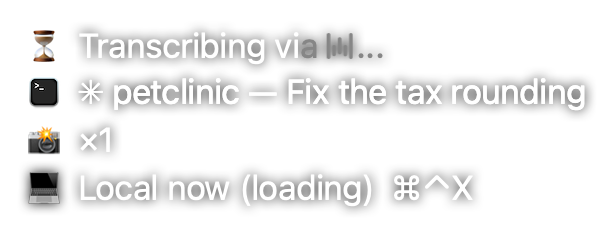
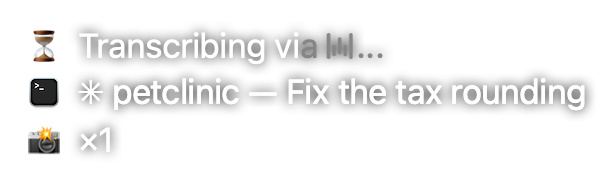
📸 States page: prompt-area-context and prompt-move-context

Changed region(s): [[0.0308, 0.1075, 0.987, 0.914]]

diff --git a/docs/overlay-states.html b/docs/overlay-states.html
@@ -100,7 +100,7 @@
 <header class="page">
   <h1>Every state of the overlay</h1>
   <p class="sub">
-    All 60 states the Walkie&nbsp;Talkie chip and panel can be in — what each one
+    All 62 states the Walkie&nbsp;Talkie chip and panel can be in — what each one
     is, and the moment it is on screen. The pictures are the real views drawing
     themselves, not mockups.
   </p>
@@ -198,9 +198,9 @@
       <section class="card" id="spawn">
         <header>
           <h3>This sentence opens a new session</h3>
-          <div class="tags"><span class="tag tag-chip" title="bare text beside the cursor — no blur, no shadow, no ✕">chip</span><span class="tag">alpha 0.80</span><span class="tag">235×70 pt</span></div>
+          <div class="tags"><span class="tag tag-chip" title="bare text beside the cursor — no blur, no shadow, no ✕">chip</span><span class="tag">alpha 0.80</span><span class="tag">227×70 pt</span></div>
         </header>
-        <div class="shot"><img src="states/spawn.png" width="235" height="70" style="opacity:0.8" alt="This sentence opens a new session"></div>
+        <div class="shot"><img src="states/spawn.png" width="227" height="70" style="opacity:0.8" alt="This sentence opens a new session"></div>
         <p class="when">🔼 ↑ — the forward button held, mouse moved up (🛞🛞 with Logi gestures off): the dictation goes to a terminal that does not exist yet.</p>
         <p class="note"><strong>One row, and the ✨ is all that is left of the destination.</strong> It had a title row of its own — Terminal&#x27;s icon, ✨, <code>workspace</code> — and Victor took it off on 2026-09-02: the folder is <em>always</em> <code>~/workspace</code>, which is the whole point of the gesture, and the icon names an app he is not looking at yet. So the mark rides in front of <code>Listening…</code> and the row above it goes. The 🔴 keeps the glyph column: a frozen recording row is indistinguishable from a hung app, and that is the one thing the pulse is here to rule out.</p>
         <code class="slug">spawn</code>
@@ -218,9 +218,9 @@
       <section class="card" id="bind-to-send">
         <header>
           <h3>Nothing is bound, and he is talking anyway</h3>
-          <div class="tags"><span class="tag tag-chip" title="bare text beside the cursor — no blur, no shadow, no ✕">chip</span><span class="tag">alpha 0.80</span><span class="tag">215×93 pt</span></div>
+          <div class="tags"><span class="tag tag-chip" title="bare text beside the cursor — no blur, no shadow, no ✕">chip</span><span class="tag">alpha 0.80</span><span class="tag">382×93 pt</span></div>
         </header>
-        <div class="shot"><img src="states/bind-to-send.png" width="215" height="93" style="opacity:0.8" alt="Nothing is bound, and he is talking anyway"></div>
+        <div class="shot"><img src="states/bind-to-send.png" width="382" height="93" style="opacity:0.8" alt="Nothing is bound, and he is talking anyway"></div>
         <p class="when">Any dictation started with no terminal bound — which the app refused outright until 2026-09-11, and now holds for the bind that follows it.</p>
         <p class="note"><strong>The destination row names a gesture rather than a place</strong>, because that is what this destination still is: <em>bind to send</em>, behind the same drawn pin <code>at caret</code> rides behind. It is the fourth answer to <em>where do these words go</em> — a terminal already bound, one it is about to open for itself, the caret, and now <strong>later</strong> (<code>AppDelegate.holdsForBind</code>). The sentence is recorded, shown and read exactly as a bound one is, and <code>commit</code> parks it for five minutes; the outbox line is written at delivery and not before, which is the whole of what survives from the 2026-08-27 decision that unbound means silent. The row comes down the instant a bind lands, and the chip says <code>📨 held — bind a terminal to send it</code> once the words have left the dictation, and <code>📨 1 waiting — bind to send</code> until a bind sends it (next shot). <strong>The icon form and not the ✨&#x27;s mark form</strong>: a mark with no icon is <code>spawnCollapsed</code>, which drops the row and rides the glyph in front of <code>Listening...</code>, so the words would never have been drawn.</p>
         <code class="slug">bind-to-send</code>
@@ -300,9 +300,9 @@
       <section class="card" id="listening">
         <header>
           <h3>Dictating</h3>
-          <div class="tags"><span class="tag tag-chip" title="bare text beside the cursor — no blur, no shadow, no ✕">chip</span><span class="tag">alpha 0.80</span><span class="tag">308×93 pt</span></div>
+          <div class="tags"><span class="tag tag-chip" title="bare text beside the cursor — no blur, no shadow, no ✕">chip</span><span class="tag">alpha 0.80</span><span class="tag">362×93 pt</span></div>
         </header>
-        <div class="shot"><img src="states/listening.png" width="308" height="93" style="opacity:0.8" alt="Dictating"></div>
+        <div class="shot"><img src="states/listening.png" width="362" height="93" style="opacity:0.8" alt="Dictating"></div>
         <p class="when">From 🔼 → until he makes it again (🛞 with Logi gestures off) — the bulk of every dictation.</p>
         <p class="note"><strong>The destination is named here</strong>, and only here — the chip has been a bare 🎙 all day, and now it wears the destination&#x27;s own icon too; and the moment the microphone opens it spells out the terminal the words are going to, in time for him to ⌘⌃B somewhere else mid-sentence if it is the wrong one. The pulsing 🔴 says <em>now</em>, <code>Listening…</code> says what. The model id used to follow it and now lives only in the menu: it is a setting, and a setting restated beside the cursor all day pays rent to be read twice a month. <strong>This is the bar full</strong> — three voiced seconds in, every character of <code>Listening...</code> lit, and it stays that way for the rest of the sentence; the two shots below it are what the same row looks like on the way there. <strong>The blue <code>HQ</code> after it is what the bar filling means</strong>, said in two letters: past three voiced seconds the wrong-language mode is at its floor and the median WER of a short clip has halved, so the tag is a claim about <em>this</em> dictation rather than the gold star it replaced, which only said well done and left him to remember what for. It pops out when the last dot lights — a thing that moves is caught in peripheral vision, which is where this row spends its life. <strong><code>📸 ×1</code> from the first frame</strong>: he took that picture by starting to talk, and the count is back on 2026-09-09 because the vignette answers <em>did that press land</em> while this answers <em>what am I about to send</em> — which is a different question three minutes and four presses in.</p>
         <code class="slug">listening</code>
@@ -370,9 +370,9 @@
       <section class="card" id="listening-picks">
         <header>
           <h3>Dictating, with elements picked</h3>
-          <div class="tags"><span class="tag tag-chip" title="bare text beside the cursor — no blur, no shadow, no ✕">chip</span><span class="tag">alpha 0.80</span><span class="tag">308×117 pt</span></div>
+          <div class="tags"><span class="tag tag-chip" title="bare text beside the cursor — no blur, no shadow, no ✕">chip</span><span class="tag">alpha 0.80</span><span class="tag">362×117 pt</span></div>
         </header>
-        <div class="shot"><img src="states/listening-picks.png" width="308" height="117" style="opacity:0.8" alt="Dictating, with elements picked"></div>
+        <div class="shot"><img src="states/listening-picks.png" width="362" height="117" style="opacity:0.8" alt="Dictating, with elements picked"></div>
         <p class="when">After the first ⌘⇧-click in Chrome, whatever app he switches to afterwards.</p>
         <p class="note">No row at all before the first pick — the <code>⌘⇧</code> invitation is a badge the extension draws at the bottom of the page since 2026-10-07. Then the newest selector, tail-first: what he cannot check otherwise is whether the click caught the button or the div wrapped around it. <strong>For four seconds</strong> — the row below is where it ends up.</p>
         <code class="slug">listening-picks</code>
@@ -410,9 +410,9 @@
       <section class="card" id="listening-selection-caught">
         <header>
           <h3>The shutter caught a highlight</h3>
-          <div class="tags"><span class="tag tag-chip" title="bare text beside the cursor — no blur, no shadow, no ✕">chip</span><span class="tag">alpha 0.80</span><span class="tag">326×117 pt</span></div>
+          <div class="tags"><span class="tag tag-chip" title="bare text beside the cursor — no blur, no shadow, no ✕">chip</span><span class="tag">alpha 0.80</span><span class="tag">326×141 pt</span></div>
         </header>
-        <div class="shot"><img src="states/listening-selection-caught.png" width="326" height="117" style="opacity:0.8" alt="The shutter caught a highlight"></div>
+        <div class="shot"><img src="states/listening-selection-caught.png" width="326" height="141" style="opacity:0.8" alt="The shutter caught a highlight"></div>
         <p class="when">For a beat after every side-button press that reads a new selection — including one in a Chrome page, which is where it used to read nothing at all.</p>
         <p class="note">His own words back, on a row that was not there a moment ago — deliberately not a flash, since a flash is a panel and a shutter press must not throw one over the work he is photographing. It said <code>selecting</code> in front of them until 2026-09-09, when Victor had the verb removed: the row appearing is the receipt. It collapses to <code>×N</code> after four seconds, and it truncates at 34 characters.</p>
         <code class="slug">listening-selection-caught</code>
@@ -470,9 +470,9 @@
       <section class="card" id="transcribing-local-now-loading">
         <header>
           <h3>⌘⌃X while the local model is cold</h3>
-          <div class="tags"><span class="tag tag-chip" title="bare text beside the cursor — no blur, no shadow, no ✕">chip</span><span class="tag">alpha 0.80</span><span class="tag">308×117 pt</span></div>
+          <div class="tags"><span class="tag tag-chip" title="bare text beside the cursor — no blur, no shadow, no ✕">chip</span><span class="tag">alpha 0.80</span><span class="tag">308×93 pt</span></div>
         </header>
-        <div class="shot"><img src="states/transcribing-local-now-loading.png" width="308" height="117" style="opacity:0.8" alt="⌘⌃X while the local model is cold"></div>
+        <div class="shot"><img src="states/transcribing-local-now-loading.png" width="308" height="93" style="opacity:0.8" alt="⌘⌃X while the local model is cold"></div>
         <p class="when">Waiting on ElevenLabs with the local weights not loaded (a cold start, or the helper restarted).</p>
         <p class="note"><code>(loading)</code> says the key will not answer at once — not that it will not work. Pressed now, the WAV waits for the weights (up to 90 s, the fallback&#x27;s own window) and the words go where the sentence was going.</p>
         <code class="slug">transcribing-local-now-loading</code>
@@ -480,9 +480,9 @@
       <section class="card" id="transcribing-fallback-countdown">
         <header>
           <h3>Fallback to local — counting down to the budget</h3>
-          <div class="tags"><span class="tag tag-chip" title="bare text beside the cursor — no blur, no shadow, no ✕">chip</span><span class="tag">alpha 0.80</span><span class="tag">308×117 pt</span></div>
+          <div class="tags"><span class="tag tag-chip" title="bare text beside the cursor — no blur, no shadow, no ✕">chip</span><span class="tag">alpha 0.80</span><span class="tag">308×93 pt</span></div>
         </header>
-        <div class="shot"><img src="states/transcribing-fallback-countdown.png" width="308" height="117" style="opacity:0.8" alt="Fallback to local — counting down to the budget"></div>
+        <div class="shot"><img src="states/transcribing-fallback-countdown.png" width="308" height="93" style="opacity:0.8" alt="Fallback to local — counting down to the budget"></div>
         <p class="when">From one second into the wait for ElevenLabs or Wispr Flow with <em>Backup Local Pre-Transcribe</em> on (the default), until the engine&#x27;s p95 for that length runs out.</p>
         <p class="note"><strong>The countdown is on the row with the keys</strong> (2026-10-07; <code>💻 local in 3s / ⌘⌃X ...</code> is Victor&#x27;s own wording, the 💻 in the glyph column — replacing 10-06&#x27;s <code>⌘⌃X - 💻 fallback, auto in 3s...</code>). Victor: <em>&quot;put a countdown timer … when the timer expires, the local dictation is automatically injected&quot;</em>, then <em>&quot;put it like fallback to local in countdown timer and then show the key shortcuts&quot;</em>. At the close the relay reads the engine&#x27;s p95 (<code>DecodeRate.budget</code>) and starts the local model <code>budget − localEta</code> into the wait, so its words are ready about when the count reaches zero — and then they go in (<code>via: local-auto</code>). ⌘⌃X puts them in sooner (<code>via: local-forced</code>); the engine&#x27;s words landing first take the row down and the local ones are discarded. Whole seconds, rounded up; <strong>no engine&#x27;s name</strong> (<em>&quot;don&#x27;t leak the name of any tool, only the icon&quot;</em> — the logo on the first row says which). It replaces the <code>🤔⏱</code> the first row grew past 150 % of the estimate, and 09-29&#x27;s <em>offered, never inserted</em> <code>Use local</code>.</p>
         <code class="slug">transcribing-fallback-countdown</code>
@@ -490,9 +490,9 @@
       <section class="card" id="transcribing-fallback-now">
         <header>
           <h3>Fallback to local — the budget ran out</h3>
-          <div class="tags"><span class="tag tag-chip" title="bare text beside the cursor — no blur, no shadow, no ✕">chip</span><span class="tag">alpha 0.80</span><span class="tag">308×117 pt</span></div>
+          <div class="tags"><span class="tag tag-chip" title="bare text beside the cursor — no blur, no shadow, no ✕">chip</span><span class="tag">alpha 0.80</span><span class="tag">308×93 pt</span></div>
         </header>
-        <div class="shot"><img src="states/transcribing-fallback-now.png" width="308" height="117" style="opacity:0.8" alt="Fallback to local — the budget ran out"></div>
+        <div class="shot"><img src="states/transcribing-fallback-now.png" width="308" height="93" style="opacity:0.8" alt="Fallback to local — the budget ran out"></div>
         <p class="when">The count reached zero with the engine&#x27;s words still out and the local decode not quite done.</p>
         <p class="note"><code>auto now...</code>: the local words go in the moment the decode ahead finishes — usually already done at zero, so this frame lasts a few hundred milliseconds at most. A local model that heard nothing leaves the sentence to the engine and the row goes.</p>
         <code class="slug">transcribing-fallback-now</code>
@@ -603,9 +603,9 @@
       <section class="card" id="flash-accessibility">
         <header>
           <h3>Flash — permissions missing</h3>
-          <div class="tags"><span class="tag tag-flash" title="a message in the chip for a few seconds — bare like the chip, no blur, no border">flash</span><span class="tag">alpha 0.80</span><span class="tag">312×46 pt</span></div>
+          <div class="tags"><span class="tag tag-flash" title="a message in the chip for a few seconds — bare like the chip, no blur, no border">flash</span><span class="tag">alpha 0.80</span><span class="tag">312×70 pt</span></div>
         </header>
-        <div class="shot"><img src="states/flash-accessibility.png" width="312" height="46" style="opacity:0.8" alt="Flash — permissions missing"></div>
+        <div class="shot"><img src="states/flash-accessibility.png" width="312" height="70" style="opacity:0.8" alt="Flash — permissions missing"></div>
         <p class="when">Fifteen seconds at launch, before anything is bound.</p>
         <p class="note">The state that proves flashes must survive the unbound case: there is no title row above it, because nothing is bound yet, and this is the whole window.</p>
         <code class="slug">flash-accessibility</code>
@@ -626,9 +626,9 @@
       <section class="card" id="prompt">
         <header>
           <h3>The held prompt</h3>
-          <div class="tags"><span class="tag tag-panel" title="top-left of the screen, blurred, full opacity, ✕ on hover">panel</span><span class="tag">alpha 1.00</span><span class="tag">385×136 pt</span></div>
+          <div class="tags"><span class="tag tag-panel" title="top-left of the screen, blurred, full opacity, ✕ on hover">panel</span><span class="tag">alpha 1.00</span><span class="tag">385×160 pt</span></div>
         </header>
-        <div class="shot"><img src="states/prompt.png" width="385" height="136" style="opacity:1" alt="The held prompt"></div>
+        <div class="shot"><img src="states/prompt.png" width="385" height="160" style="opacity:1" alt="The held prompt"></div>
         <p class="when">The seconds between the model answering and the words reaching the agent.</p>
         <p class="note">The one thing he must actually read: what the model heard, while Cancel can still stop it. The panel takes only the width the text needs, up to a third of the screen — a four-word dictation in a half-screen window is empty space parked over his work. The last two lines name the microphone that heard it and the engine that wrote it (2026-10-06) — what this sentence actually went through, so a local fallback or ⌘⌃X says so.</p>
         <code class="slug">prompt</code>
@@ -646,9 +646,9 @@
       <section class="card" id="prompt-autosend-paused">
         <header>
           <h3>Under Autosend, with the pointer on it</h3>
-          <div class="tags"><span class="tag tag-panel" title="top-left of the screen, blurred, full opacity, ✕ on hover">panel</span><span class="tag">alpha 1.00</span><span class="tag">385×106 pt</span></div>
+          <div class="tags"><span class="tag tag-panel" title="top-left of the screen, blurred, full opacity, ✕ on hover">panel</span><span class="tag">alpha 1.00</span><span class="tag">385×178 pt</span></div>
         </header>
-        <div class="shot"><img src="states/prompt-autosend-paused.png" width="385" height="106" style="opacity:1" alt="Under Autosend, with the pointer on it"></div>
+        <div class="shot"><img src="states/prompt-autosend-paused.png" width="385" height="178" style="opacity:1" alt="Under Autosend, with the pointer on it"></div>
         <p class="when">Autosend is ticked and he moved the pointer onto the panel before its second ran out (2026-09-23).</p>
         <p class="note">The clock stops for as long as the pointer stays on the panel, and the row flashes use says so — with the two keys that still answer it, since there are no buttons to carry them. Leaving restarts the one-second receipt whole rather than resuming it: resumed, a hover that began at 0.9 s would send the instant the hand let go.</p>
         <code class="slug">prompt-autosend-paused</code>
@@ -676,12 +676,32 @@
       <section class="card" id="prompt-inline">
         <header>
           <h3>The prompt, with its pictures where they were taken</h3>
-          <div class="tags"><span class="tag tag-panel" title="top-left of the screen, blurred, full opacity, ✕ on hover">panel</span><span class="tag">alpha 1.00</span><span class="tag">749×584 pt</span></div>
+          <div class="tags"><span class="tag tag-panel" title="top-left of the screen, blurred, full opacity, ✕ on hover">panel</span><span class="tag">alpha 1.00</span><span class="tag">832×616 pt</span></div>
         </header>
-        <div class="shot"><img src="states/prompt-inline.png" width="749" height="584" style="opacity:1" alt="The prompt, with its pictures where they were taken"></div>
+        <div class="shot"><img src="states/prompt-inline.png" width="832" height="616" style="opacity:1" alt="The prompt, with its pictures where they were taken"></div>
         <p class="when">Word timings placed the markers (ElevenLabs, local): every <code>[📸N…]</code> token in the words.</p>
         <p class="note">2026-10-07, Victor: the panel must show <em>where</em> each thing landed, to check the annotation. A picture token ends its paragraph, captions the picture drawn under it — the ✂ cut-out, or the frame — and the words carry on below. A highlight or a picked element is its own indented paragraph. Frames the words did not take (here the automatic one) stay in the strip.</p>
         <code class="slug">prompt-inline</code>
+      </section>
+      <section class="card" id="prompt-area-context">
+        <header>
+          <h3>The prompt, a ✂ area and the screen it was cut from</h3>
+          <div class="tags"><span class="tag tag-panel" title="top-left of the screen, blurred, full opacity, ✕ on hover">panel</span><span class="tag">alpha 1.00</span><span class="tag">509×331 pt</span></div>
+        </header>
+        <div class="shot"><img src="states/prompt-area-context.png" width="509" height="331" style="opacity:1" alt="The prompt, a ✂ area and the screen it was cut from"></div>
+        <p class="when">A wheel-drag area whose token is in the words.</p>
+        <p class="note">2026-10-15, Victor: after the cut-out, the whole screen that goes with it — greyed outside the box, the box lit and ringed red — so it is plain that the entire screen is sent too. Drawn by <code>AreaContext</code>, never written to disk.</p>
+        <code class="slug">prompt-area-context</code>
+      </section>
+      <section class="card" id="prompt-move-context">
+        <header>
+          <h3>The prompt, a ⇧-drag move: red to green</h3>
+          <div class="tags"><span class="tag tag-panel" title="top-left of the screen, blurred, full opacity, ✕ on hover">panel</span><span class="tag">alpha 1.00</span><span class="tag">651×358 pt</span></div>
+        </header>
+        <div class="shot"><img src="states/prompt-move-context.png" width="651" height="358" style="opacity:1" alt="The prompt, a ⇧-drag move: red to green"></div>
+        <p class="when">A wheel-drag area with ⇧ / right-click, then a second box: <em>this, moved to there</em>.</p>
+        <p class="note">2026-10-15, Victor: the whole screen in a thumbnail, the first box red, the second green, a white arrow from red to green — the same three colours the live overlay draws while he makes the gesture.</p>
+        <code class="slug">prompt-move-context</code>
       </section>
       <section class="card" id="prompt-selection">
         <header>
@@ -706,9 +726,9 @@
       <section class="card" id="prompt-everything">
         <header>
           <h3>The prompt, everything at once</h3>
-          <div class="tags"><span class="tag tag-panel" title="top-left of the screen, blurred, full opacity, ✕ on hover">panel</span><span class="tag">alpha 1.00</span><span class="tag">385×261 pt</span></div>
+          <div class="tags"><span class="tag tag-panel" title="top-left of the screen, blurred, full opacity, ✕ on hover">panel</span><span class="tag">alpha 1.00</span><span class="tag">385×285 pt</span></div>
         </header>
-        <div class="shot"><img src="states/prompt-everything.png" width="385" height="261" style="opacity:1" alt="The prompt, everything at once"></div>
+        <div class="shot"><img src="states/prompt-everything.png" width="385" height="285" style="opacity:1" alt="The prompt, everything at once"></div>
         <p class="when">A pointed dictation: highlight, several frames, a named window, a shaky transcript.</p>
         <p class="note">The tallest the overlay ever gets. Rows in the order the envelope is packed: what he said, what the app thinks of it, what it is carrying, where he was, which microphone and engine heard it — then the two buttons.</p>
         <code class="slug">prompt-everything</code>
@@ -716,9 +736,9 @@
       <section class="card" id="prompt-long">
         <header>
           <h3>A long transcript</h3>
-          <div class="tags"><span class="tag tag-panel" title="top-left of the screen, blurred, full opacity, ✕ on hover">panel</span><span class="tag">alpha 1.00</span><span class="tag">749×153 pt</span></div>
+          <div class="tags"><span class="tag tag-panel" title="top-left of the screen, blurred, full opacity, ✕ on hover">panel</span><span class="tag">alpha 1.00</span><span class="tag">832×153 pt</span></div>
         </header>
-        <div class="shot"><img src="states/prompt-long.png" width="749" height="153" style="opacity:1" alt="A long transcript"></div>
+        <div class="shot"><img src="states/prompt-long.png" width="832" height="153" style="opacity:1" alt="A long transcript"></div>
         <p class="when">A sentence that does not fit one line — the panel wraps and grows.</p>
         <p class="note">Width is capped at a third of the screen and the height at what is left of it; the transcript row is measured by asking the label, not by a parallel calculation, because any disagreement is a sentence that silently stops.</p>
         <code class="slug">prompt-long</code>
@@ -755,7 +775,7 @@
       </section>
     </div>
 <footer>
-  Generated from <code>OverlayStates.swift</code> · repo at 1ee44bb · 15 Oct 2026 · built 15 Oct 2026, 11:25
+  Generated from <code>OverlayStates.swift</code> · repo at 9706ec6 · 15 Oct 2026 · built 15 Oct 2026, 19:32
 </footer>
 <button class="toggle" onclick="document.body.classList.toggle('light')">Backdrop: dark / light</button>
 </body>
